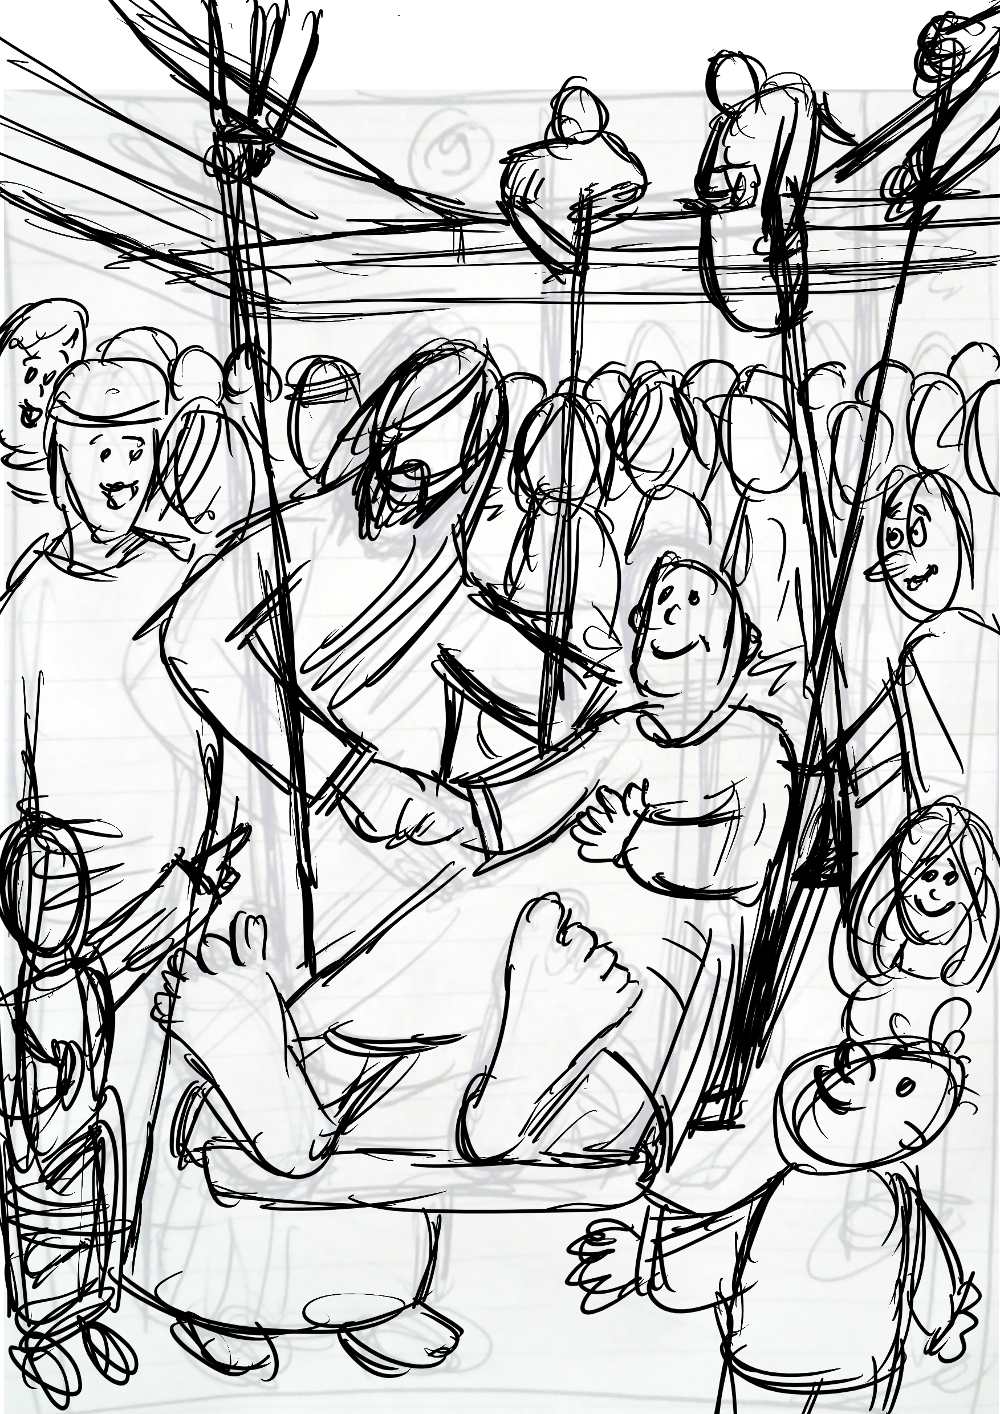
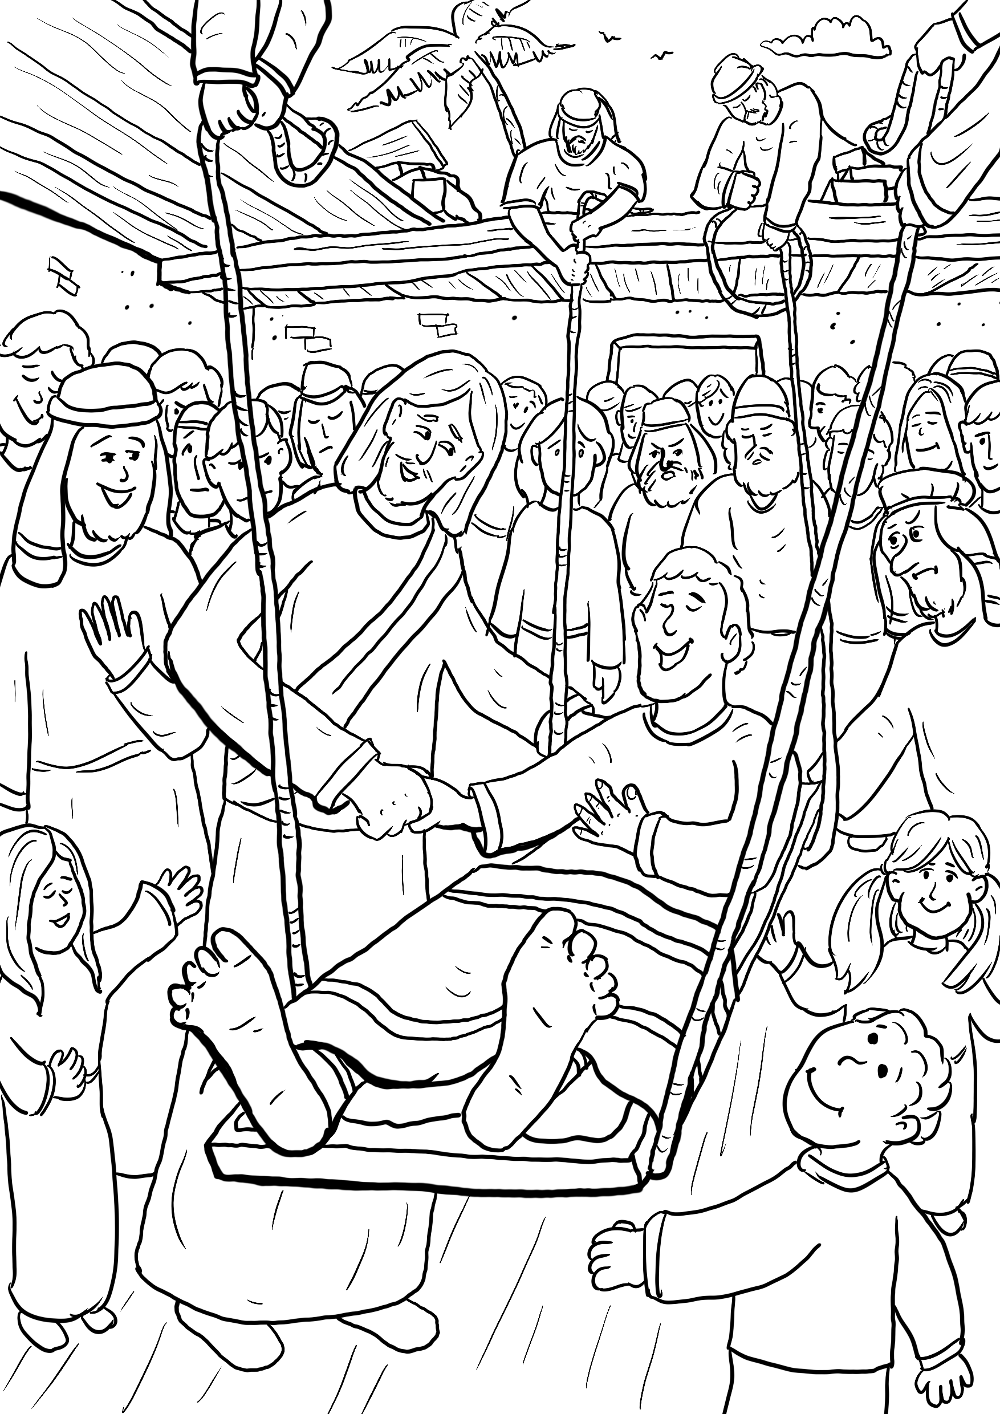
Update 09.

diff --git a/script.js b/script.js
@@ -3,7 +3,7 @@ angular.module('galleryApp', [])
     var gallery = this;
     gallery.language = "ro";
     gallery.work_start_date = new Date(2017,02,12);
-    gallery.worked_hours = 70;  // EDIT HERE
+    gallery.worked_hours = 71;  // EDIT HERE
 
     gallery.get_global_progress = function() {
       var index;
@@ -241,7 +241,7 @@ angular.module('galleryApp', [])
       {
         id: 9,
         img: '09.png',
-        done: 50,
+        done: 100,
         title: {
           ro: "Vindecarea slăbănogului",
           en: "Healing a paralyzed man"
